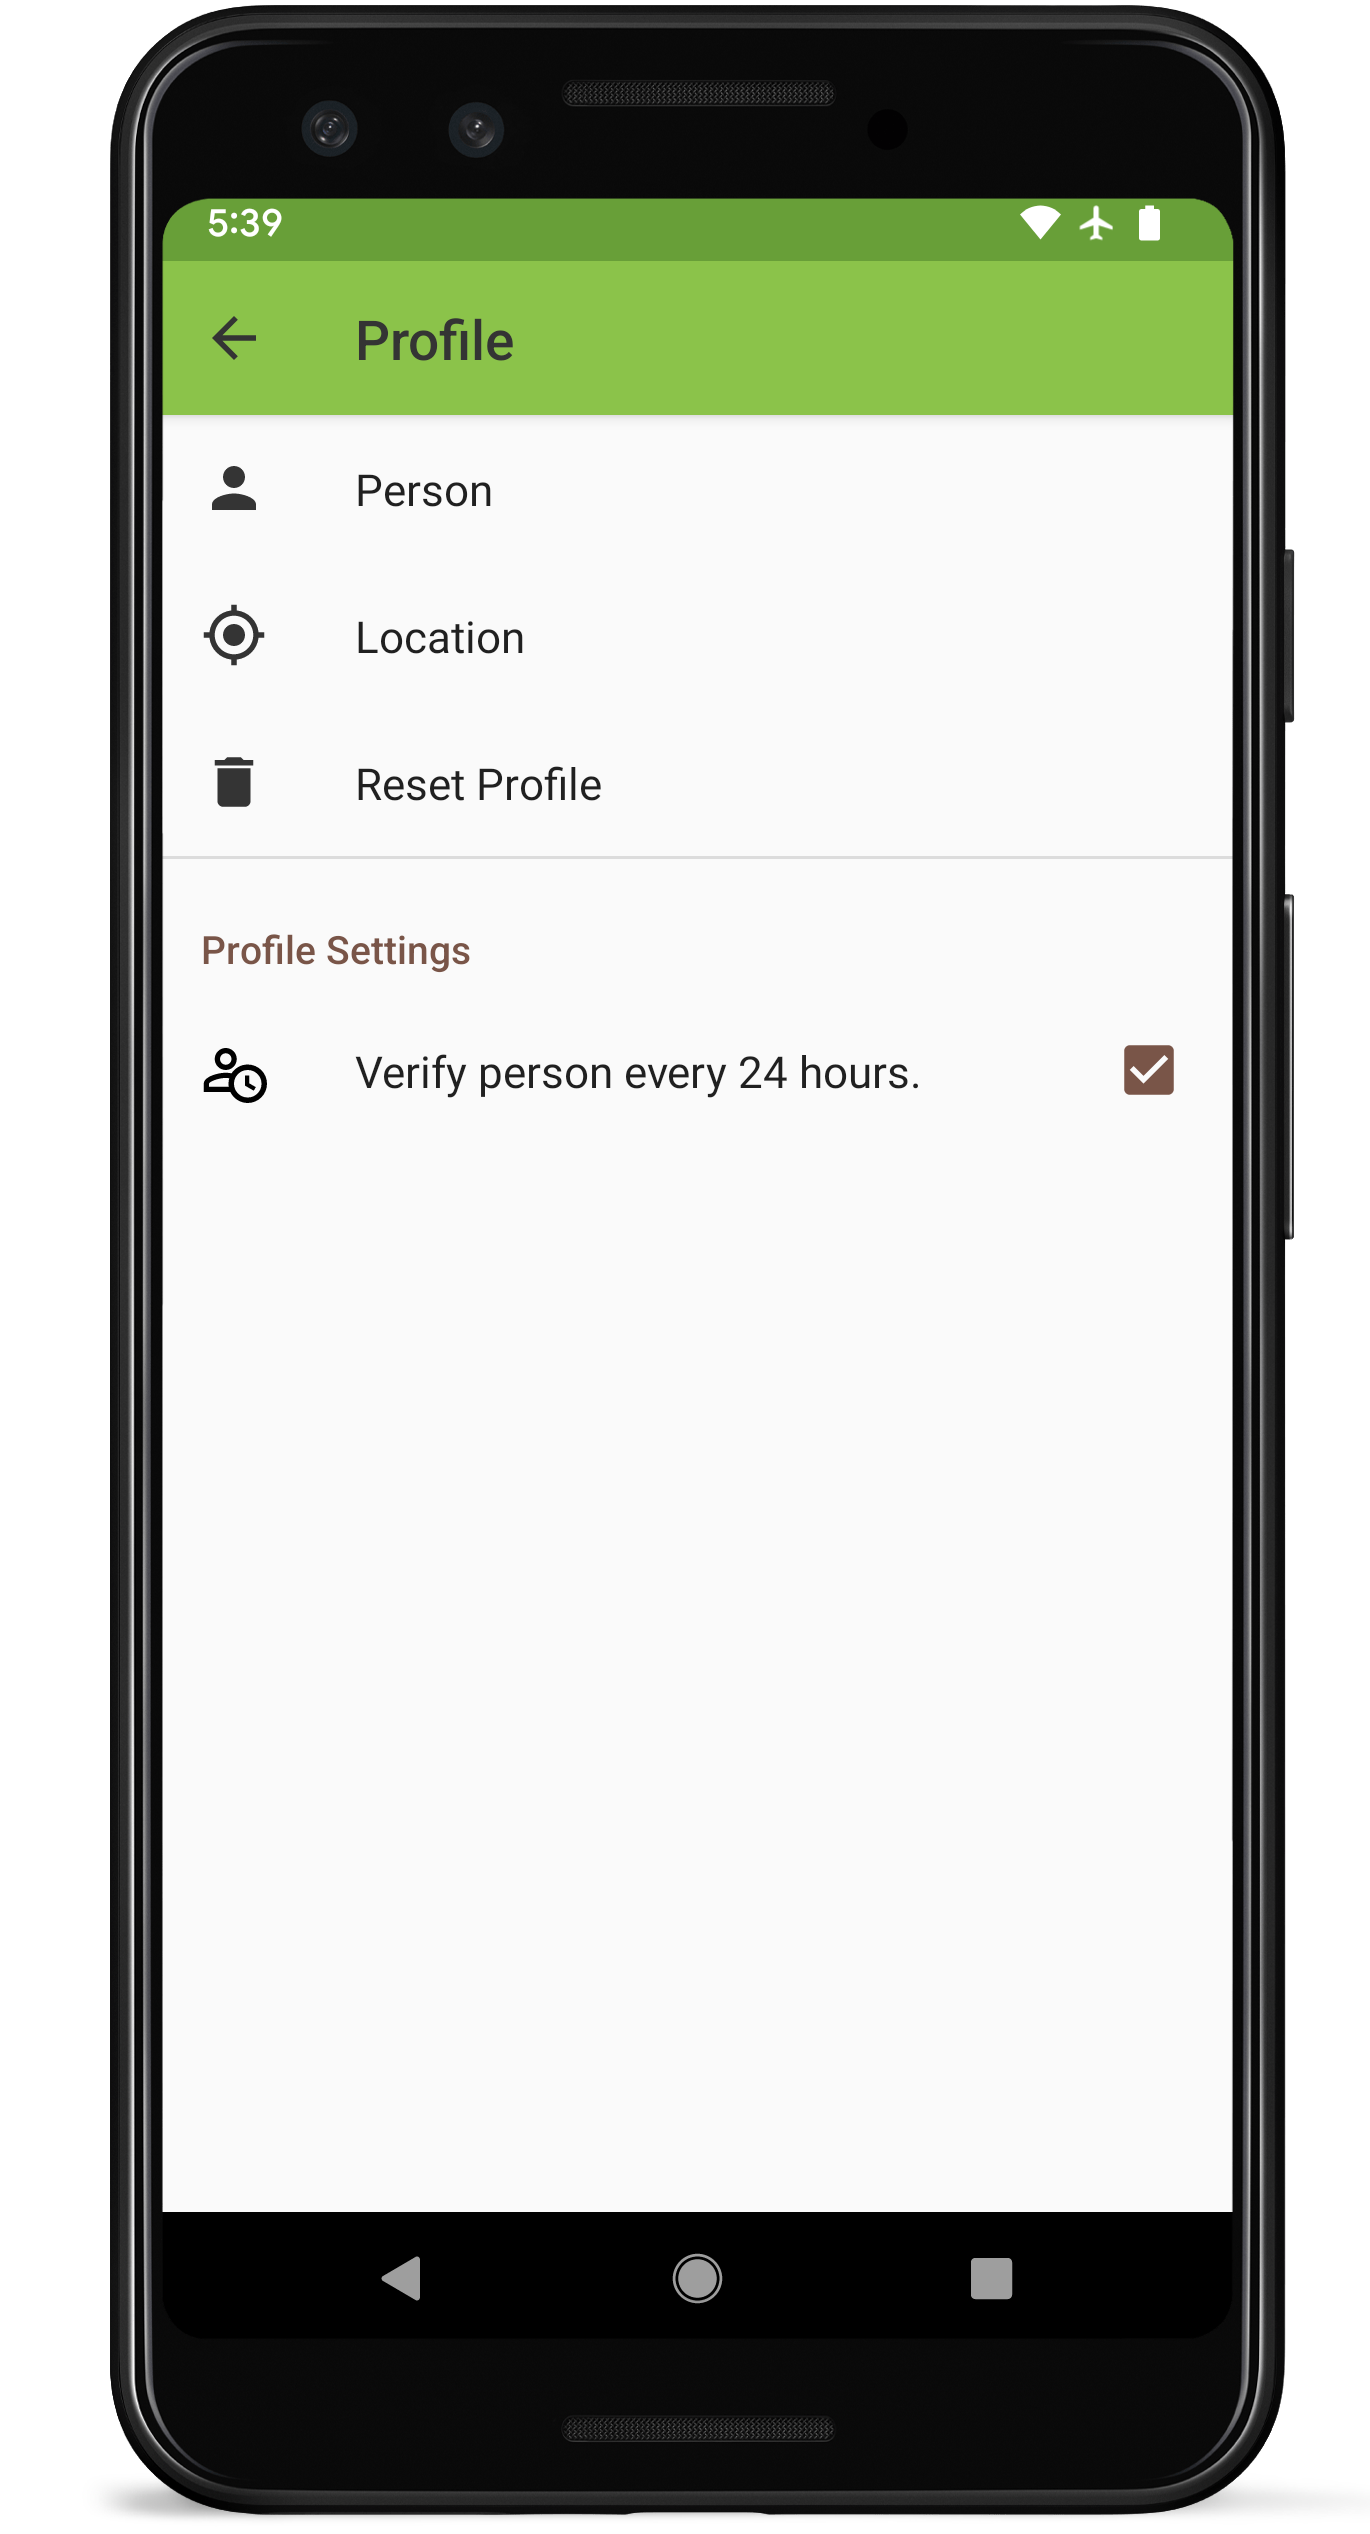
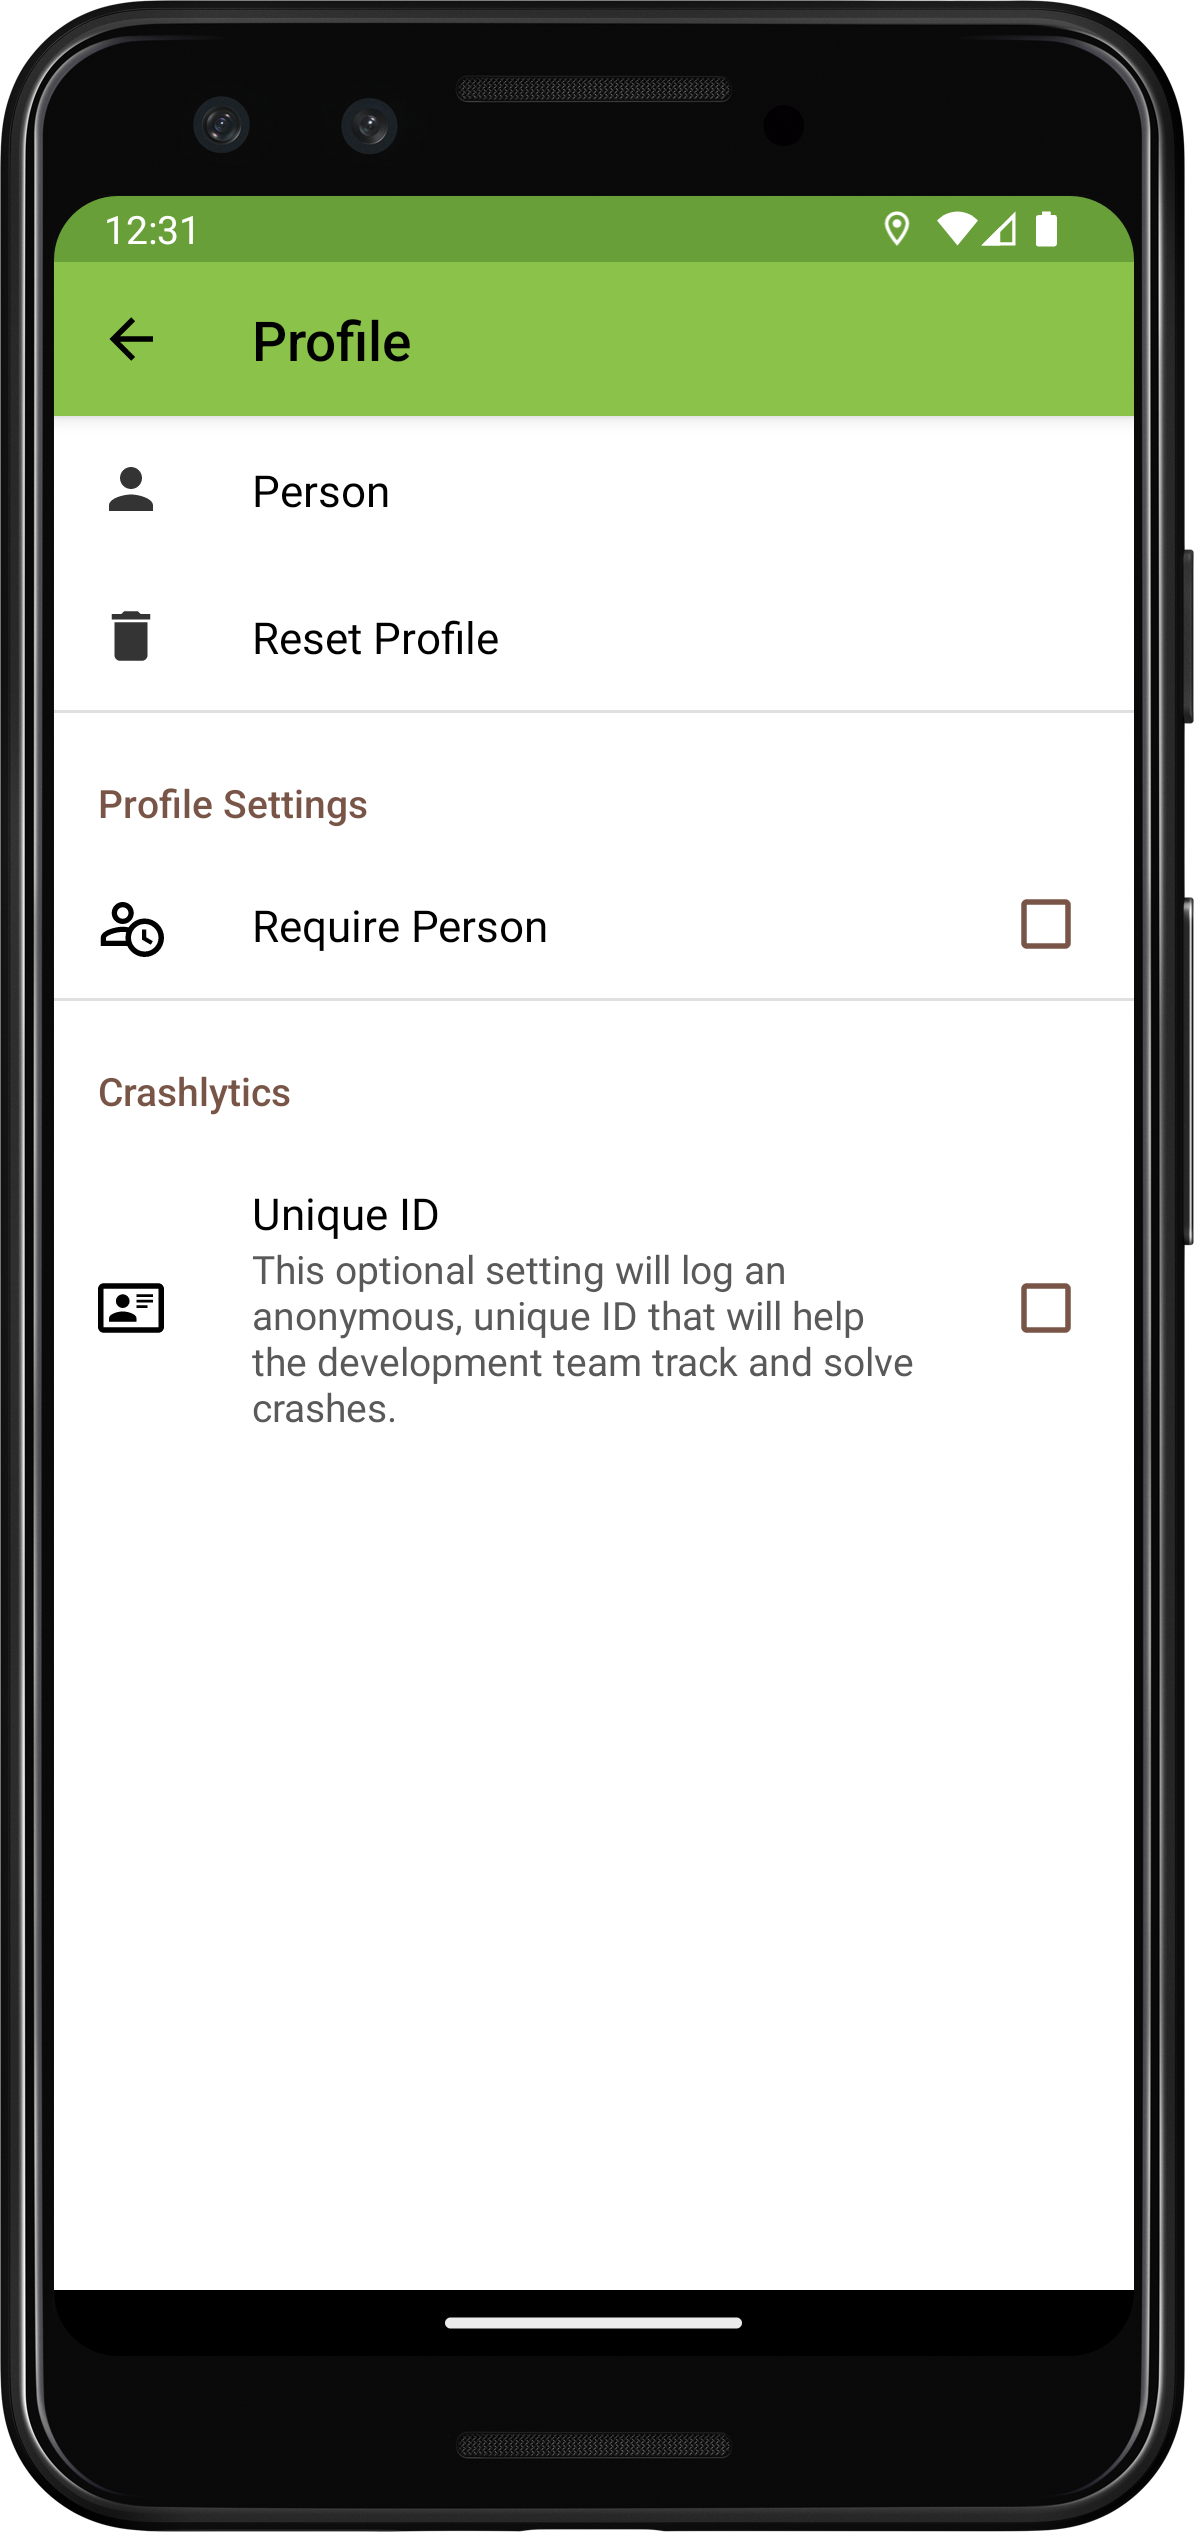
update profile settings docs

diff --git a/docs/source/settings-profile.rst b/docs/source/settings-profile.rst
@@ -8,21 +8,50 @@ Profile Settings
 
    Profile settings screen layout
 
+Profile
+-------
+
 |person| Person
 ~~~~~~~~~~~~~~~
 
 Sets the first and last name of the person operating Field Book. This information is stored with each collected measurement as metadata and is included in the database |export| :doc:`export` format.
 
-Additional settings are used to reset (|reset|) or turn on/off (|verify|) regular verification of the profle information
+|reset| Reset Profile
+~~~~~~~~~~~~~~~~~~~~~
+
+Unsets the first and last name of the person operating Field Book.
+
+|verify| Require Person
+~~~~~~~~~~~~~~~~~~~~~~~
+
+If enabled, prevents the use of the app unless Person is set. And adds a |interval| time between verification setting, which can be set to one of three intervals
+
+.. figure:: /_static/images/settings/settings_profile_verification_times.png
+   :width: 40%
+   :align: center
+   :alt: Profile verification interval options
+
+   Choice of profile verification intervals
+
+Crashlytics
+-----------
+
+|id| Unique ID
+~~~~~~~~~~~~~~
+
+Turns on more specific crash logging to help development team improve Field Book
 
 .. |person| image:: /_static/icons/settings/profile/account.png
-  :width: 20
-
-.. |export| image:: /_static/icons/settings/profile/content-save.png
   :width: 20
 
 .. |reset| image:: /_static/icons/settings/profile/delete.png
   :width: 20
 
 .. |verify| image:: /_static/icons/settings/profile/account-clock-outline.png
+  :width: 20
+
+.. |interval| image:: /_static/icons/settings/profile/hours-24.png
+  :width: 20
+
+.. |id| image:: /_static/icons/settings/profile/card-account-details-outline.png
   :width: 20
